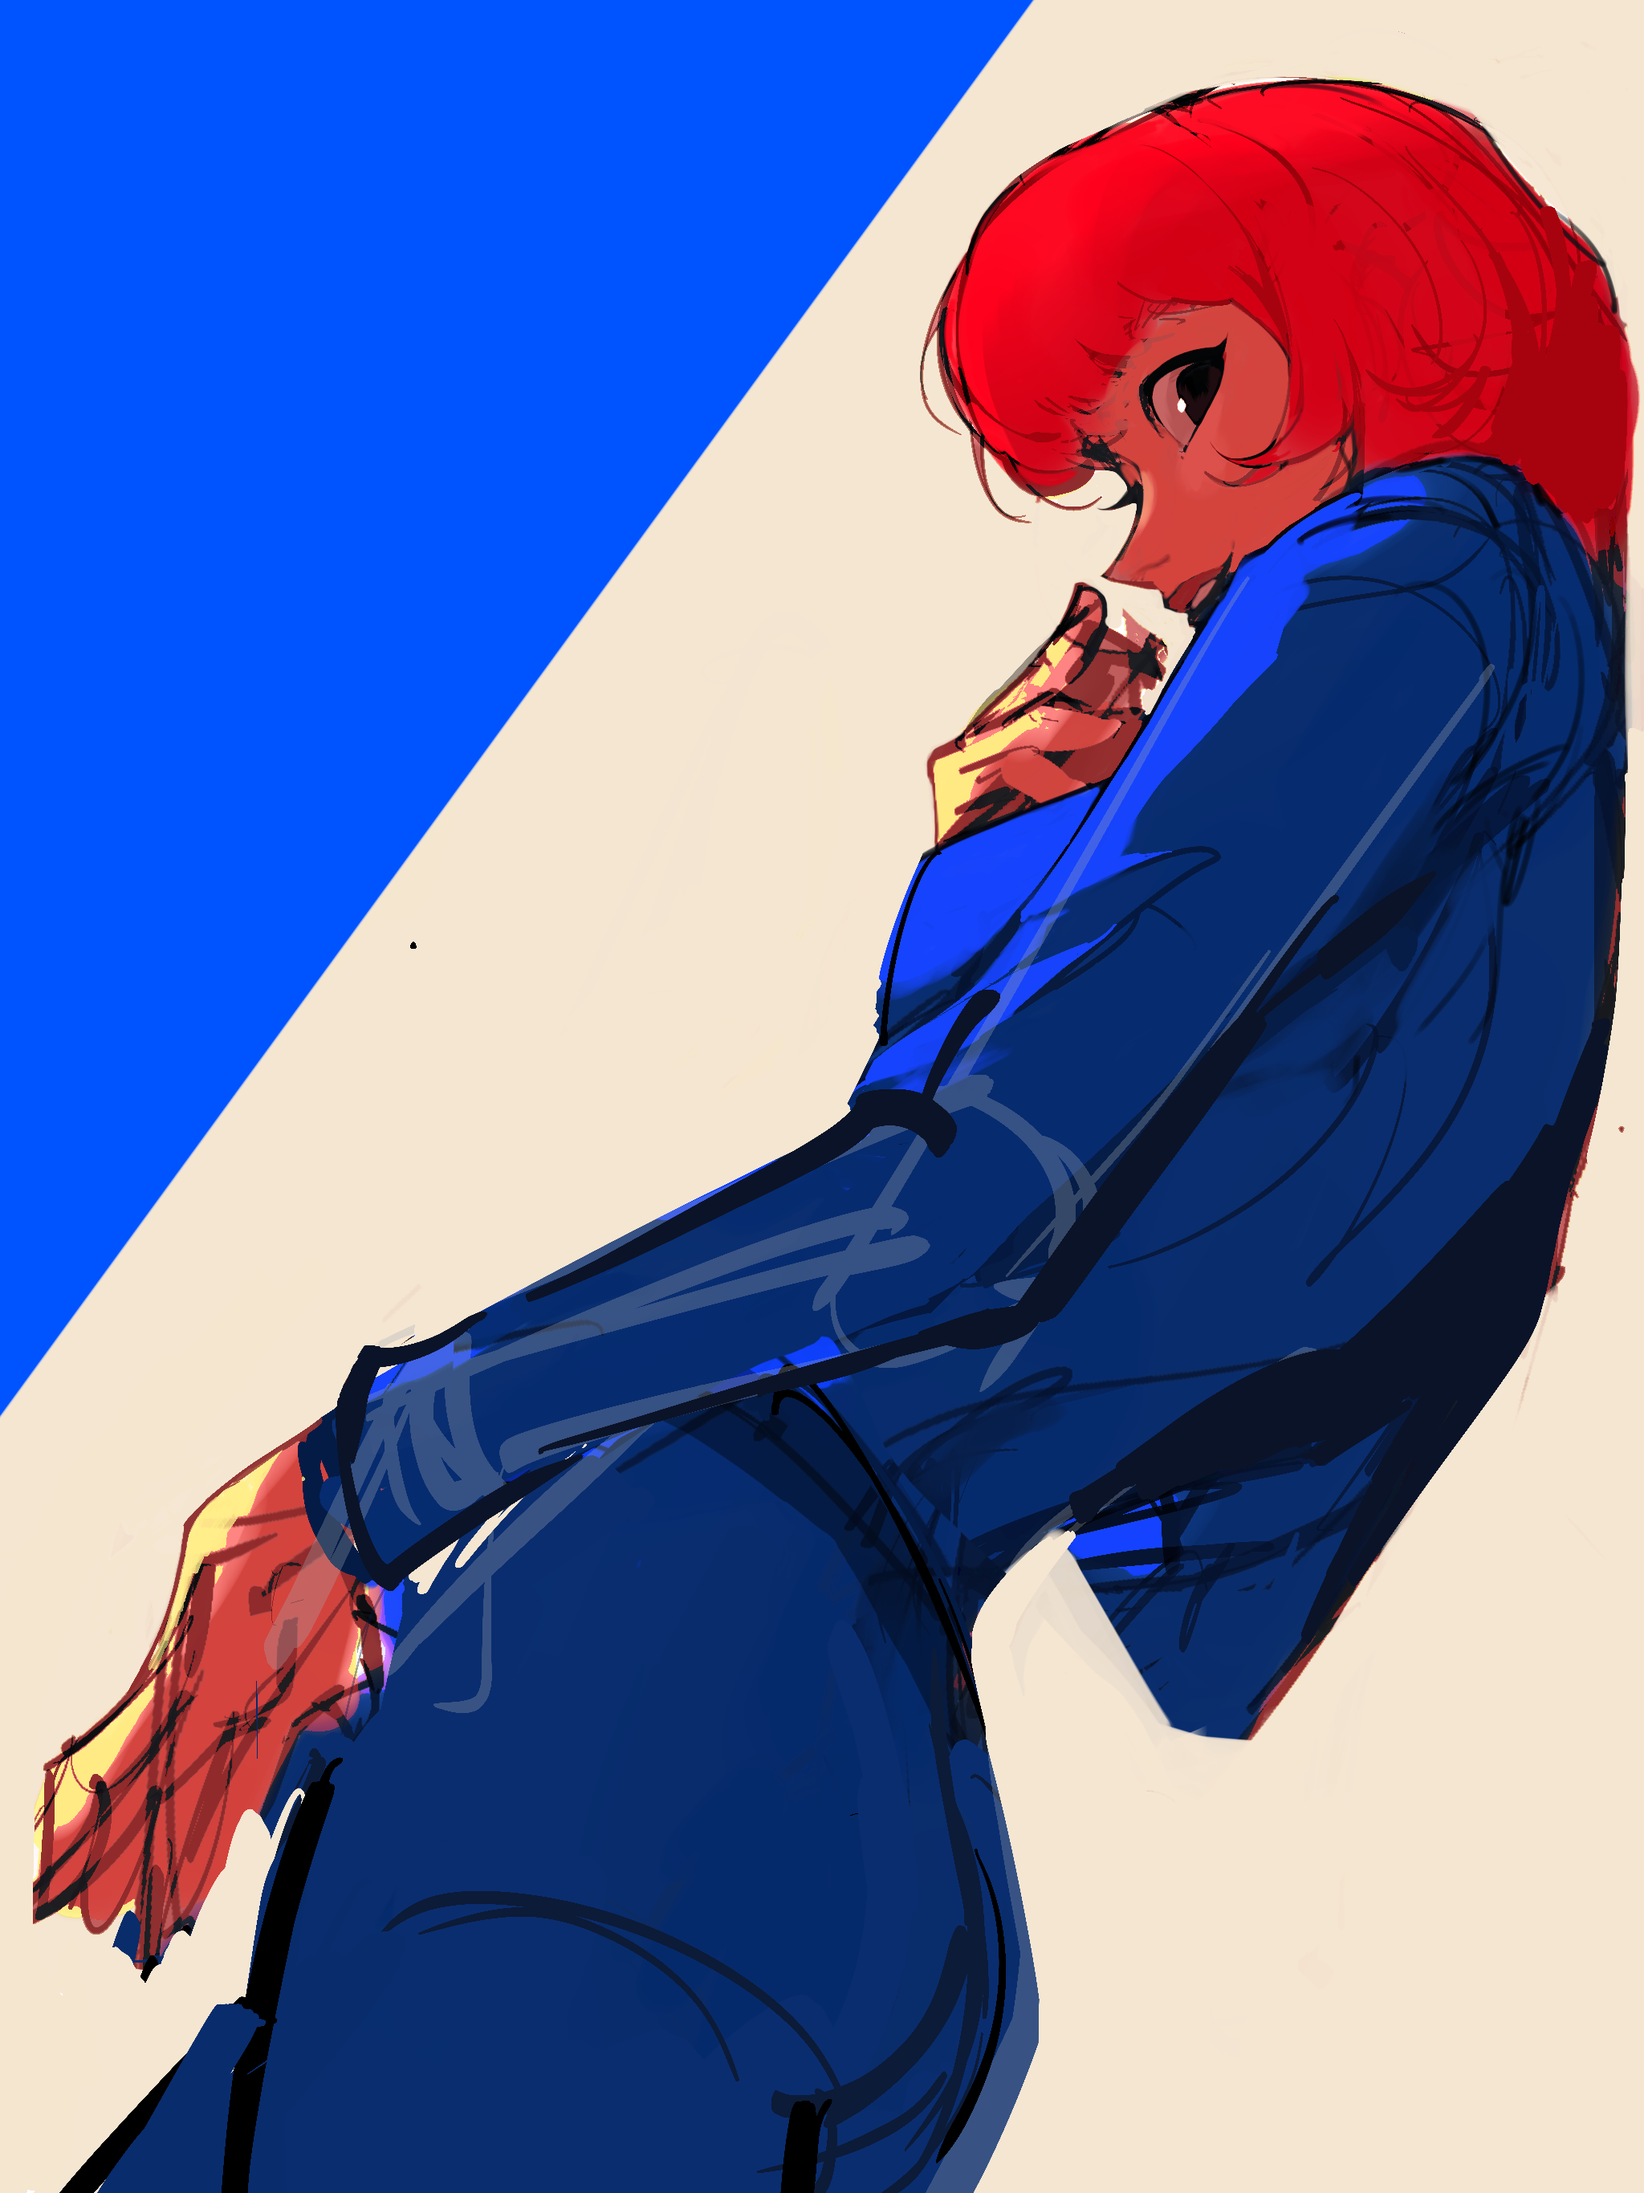
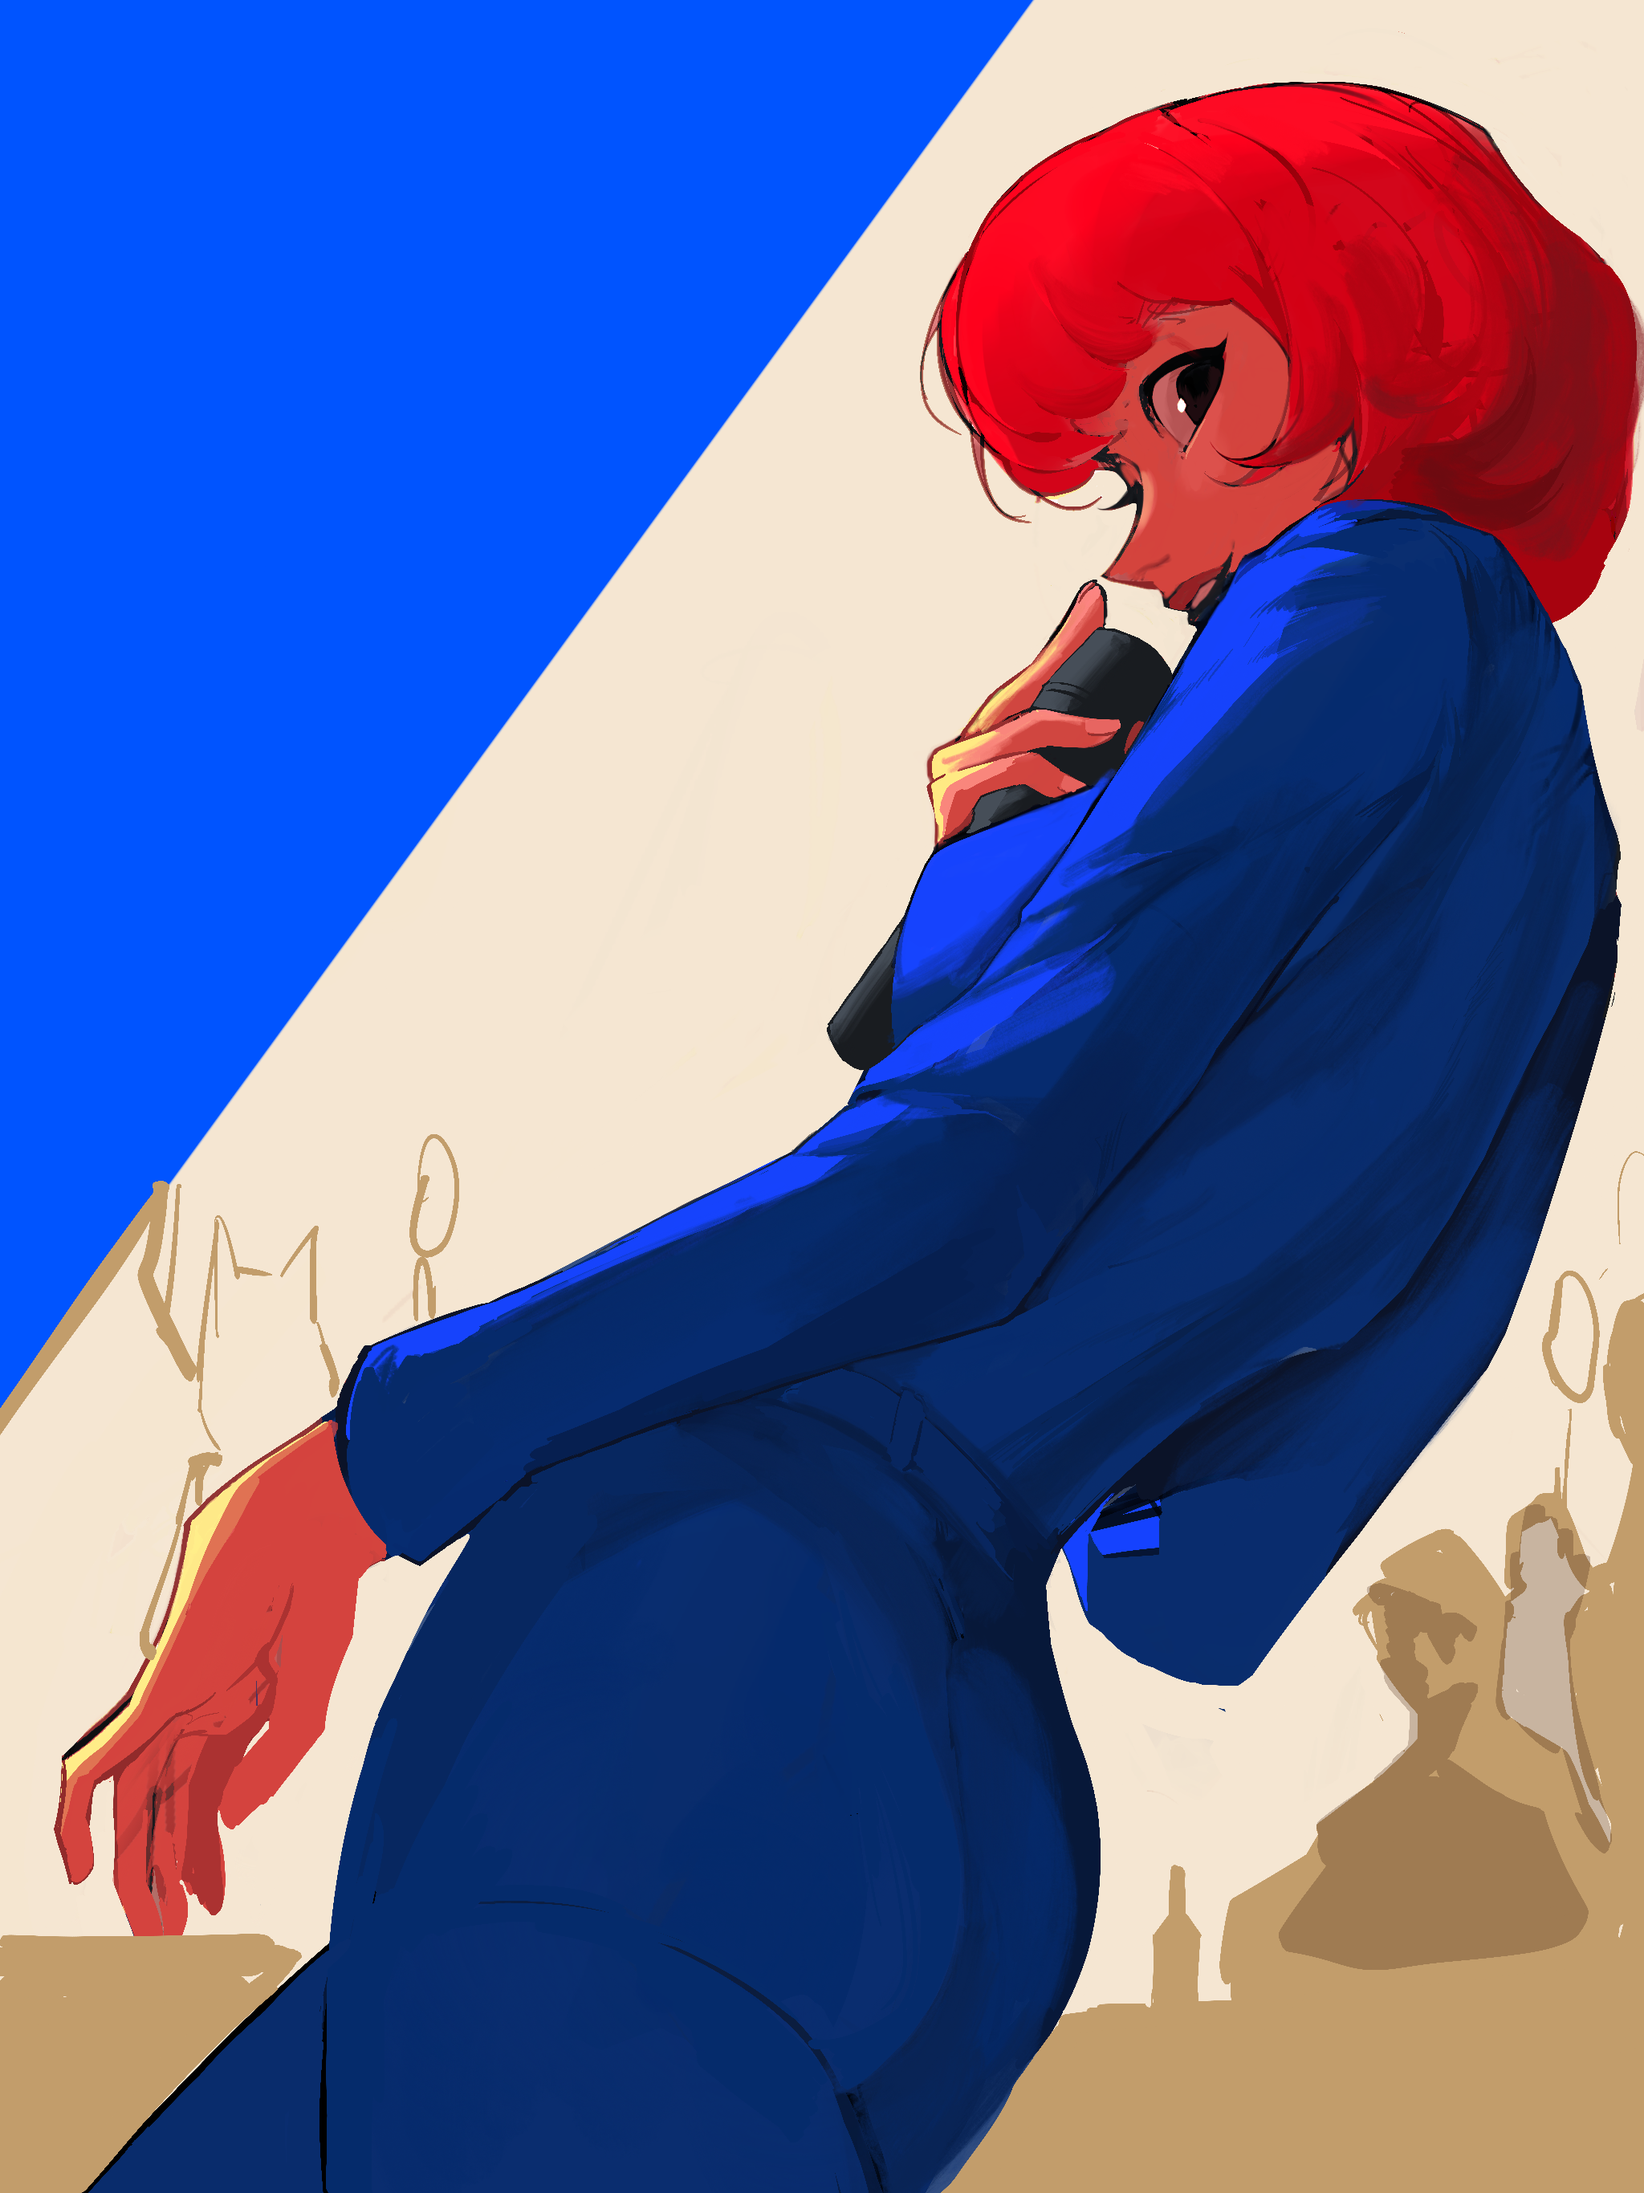
디자인 과정 작업이미지 추가

diff --git a/charactor-design.html b/charactor-design.html
@@ -466,6 +466,9 @@
           <!-- 닥터 -->
           <h2>설정①</h2>
           <p>캐릭터 색상/ 분위기 작업</p>
+          <!--화살표 -->
+          <div class="pointer_ex">진행방향</div>
+          <div class="pointer"></div>
           <!-- 닥터 -->
           <ul class="i_t">
             <li>
@@ -482,6 +485,16 @@
               <div class="img_wrap">
                 <div class="m_d_click_cover"></div>
                 <img
+                  src="images/charactor_design/face/doctor_m.png"
+                  alt="디자인_영감"
+                  oncontextmenu="return false"
+                />
+              </div>
+            </li>
+            <li>
+              <div class="img_wrap">
+                <div class="m_d_click_cover"></div>
+                <img
                   src="images/charactor_design/face/doctor_w.png"
                   alt="디자인_영감"
                   oncontextmenu="return false"
@@ -489,9 +502,6 @@
               </div>
             </li>
           </ul>
-          <!--화살표 -->
-          <div class="pointer_ex">진행방향</div>
-          <div class="pointer"></div>
           <!-- 유리 -->
           <ul class="i_t">
             <li>
@@ -519,6 +529,39 @@
                 <div class="m_d_click_cover"></div>
                 <img
                   src="images/charactor_design/face/yuri_3.png"
+                  alt="디자인_영감"
+                  oncontextmenu="return false"
+                />
+              </div>
+            </li>
+          </ul>
+          <!-- 앨리스 -->
+          <ul class="i_t">
+            <li>
+              <div class="img_wrap">
+                <div class="m_d_click_cover"></div>
+                <img
+                  src="images/charactor_design/face/alice_1.png"
+                  alt="디자인_영감"
+                  oncontextmenu="return false"
+                />
+              </div>
+            </li>
+            <li>
+              <div class="img_wrap">
+                <div class="m_d_click_cover"></div>
+                <img
+                  src="images/charactor_design/face/alice_2.png"
+                  alt="디자인_영감"
+                  oncontextmenu="return false"
+                />
+              </div>
+            </li>
+            <li>
+              <div class="img_wrap">
+                <div class="m_d_click_cover"></div>
+                <img
+                  src="images/charactor_design/face/alice_3.png"
                   alt="디자인_영감"
                   oncontextmenu="return false"
                 />

diff --git a/css/charator_Design.css b/css/charator_Design.css
@@ -1,6 +1,7 @@
 @charset "utf-8";
 .i_t{
   padding: 10px;
+  margin-bottom: 10px;
 }
 
 
